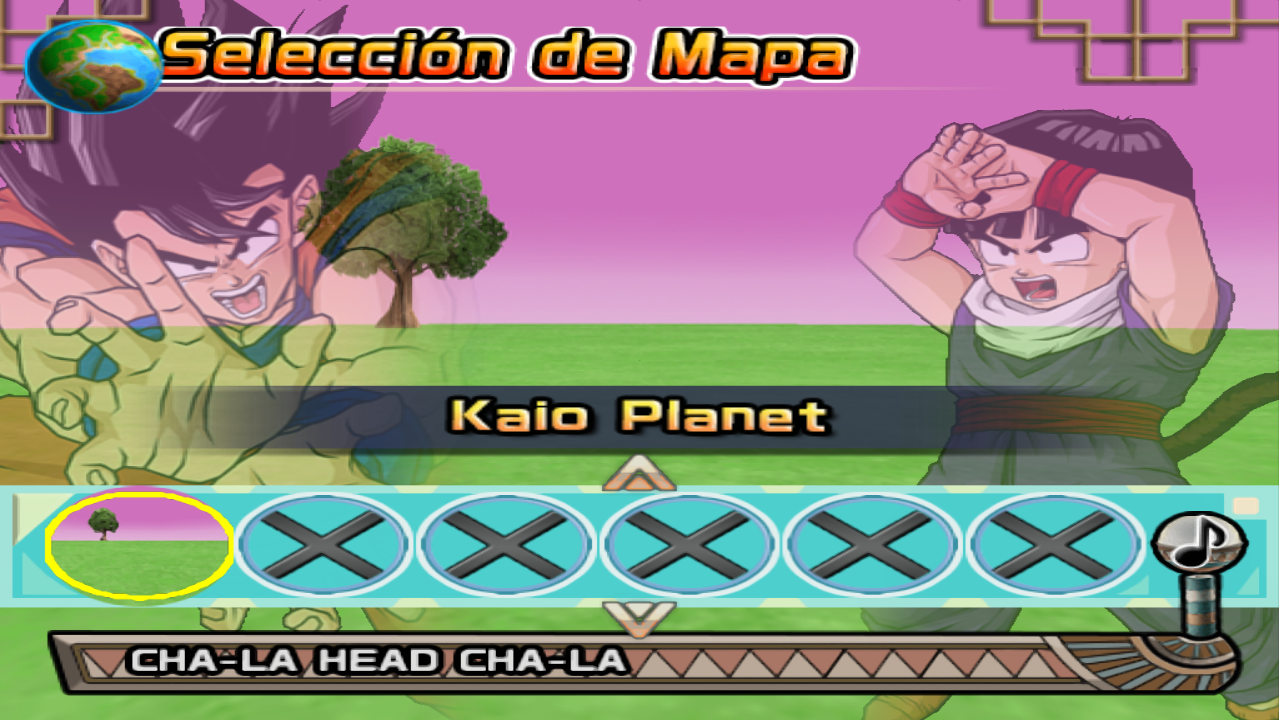
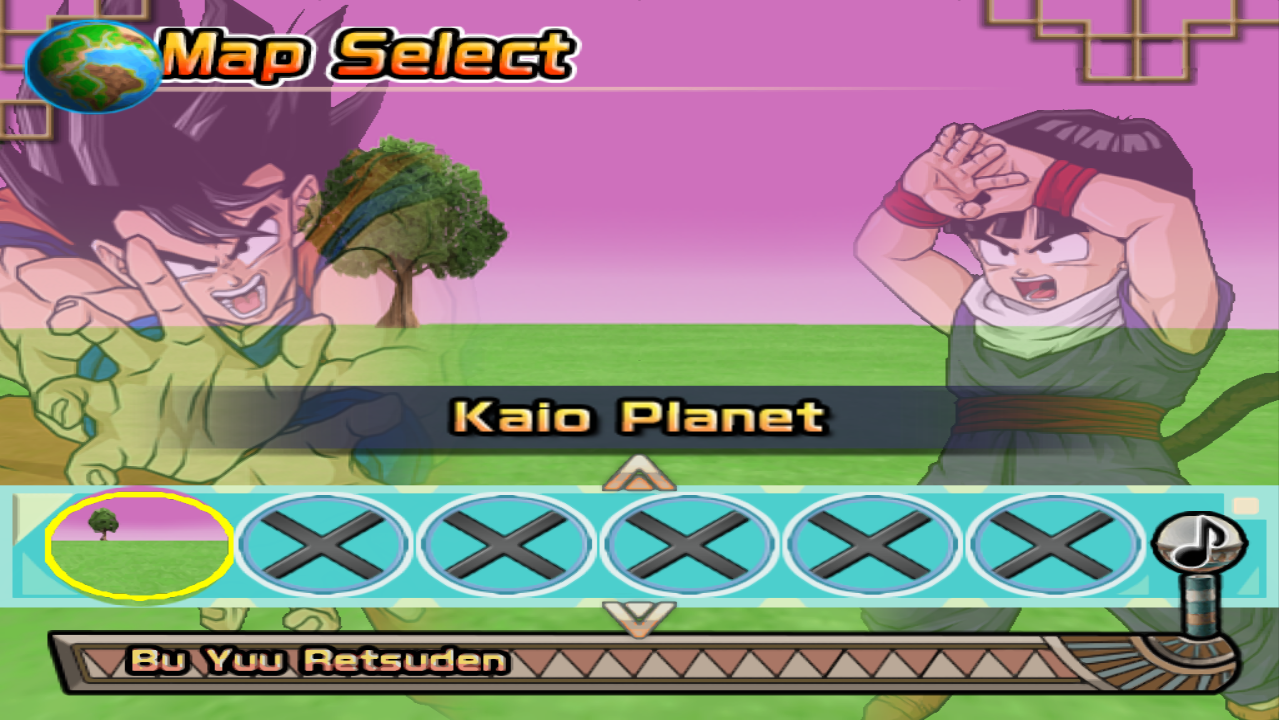
Use English repository presentation and screenshots

Changed region(s): [[0.122, 0.0306, 0.6708, 0.1222], [0.0915, 0.8861, 0.5184, 0.9472], [0.3354, 0.55, 0.6708, 0.6111]]

diff --git a/README.md b/README.md
@@ -35,9 +35,7 @@ The game runs natively on Windows, using the PC port by
 | HUD | Shows the two active fighters. | Adds ally information, targets and radar. |
 | Platform | PlayStation 2. | Native Windows port with video, audio and control settings. |
 
-
-
-## Game language / Idioma del juego
+## Game language
 
 `Install.exe` has its own **Spanish / English** interface and lets you choose
 **Spanish**, **English** or **both** for the complete game, including voices.
@@ -46,14 +44,9 @@ The game runs natively on Windows, using the PC port by
   directly in that language, without the startup language selector.
 - **Both languages:** setup installs the ISO language and downloads the missing
   text and voice package from this same private repository. Progress appears
-  as “Instalando paquete de idioma” or “Installing language pack”.
+  as “Installing language pack”.
 - **Private downloads:** sign in with a GitHub account that has read access to
   this repository. Existing installed language files can be reused.
-
-El instalador permite elegir **Español**, **Inglés** o **ambos**, con textos y
-voces. Con un solo idioma, se usa la ISO correspondiente y el juego arranca
-directamente. Con ambos, el idioma que falta se descarga de este repositorio
-privado: cada tester necesita acceso y sesión de GitHub.
 
 ## Install or update
 
@@ -70,7 +63,7 @@ Extract all contents directly into the game directory. `Install.exe` and
   profile. The cosmetic R label is not the room compatibility check.
 
 <p align="center">
-  <img src="docs/presentation/installer-es.png" width="960" alt="Installer with interface and game language choices">
+  <img src="docs/presentation/installer-en.png" width="960" alt="Installer with interface and game language choices">
 </p>
 
 ## Custom maps

diff --git a/docs/presentation/CREDITS.md b/docs/presentation/CREDITS.md
@@ -2,7 +2,7 @@
 
 Repository artwork, the game icon and gameplay screenshots were supplied by the
 project maintainer. `bt4-intro-hq.gif` is an animated adaptation of the supplied
-artwork. `tag-team-battle.jpg` shows gameplay. `installer-es.png` and `map-selector.png` are captures of the current native installer and map selector; the Kaio thumbnail comes from the actual stage without fighters or HUD.
+artwork. `tag-team-battle.jpg` shows gameplay. `installer-en.png` and `map-selector.png` are captures of the current native installer and map selector; the Kaio thumbnail comes from the actual stage without fighters or HUD.
 
 Artwork, screenshots and icons retain their respective rights. Their inclusion
 does not change the licenses of the game content or source code.
